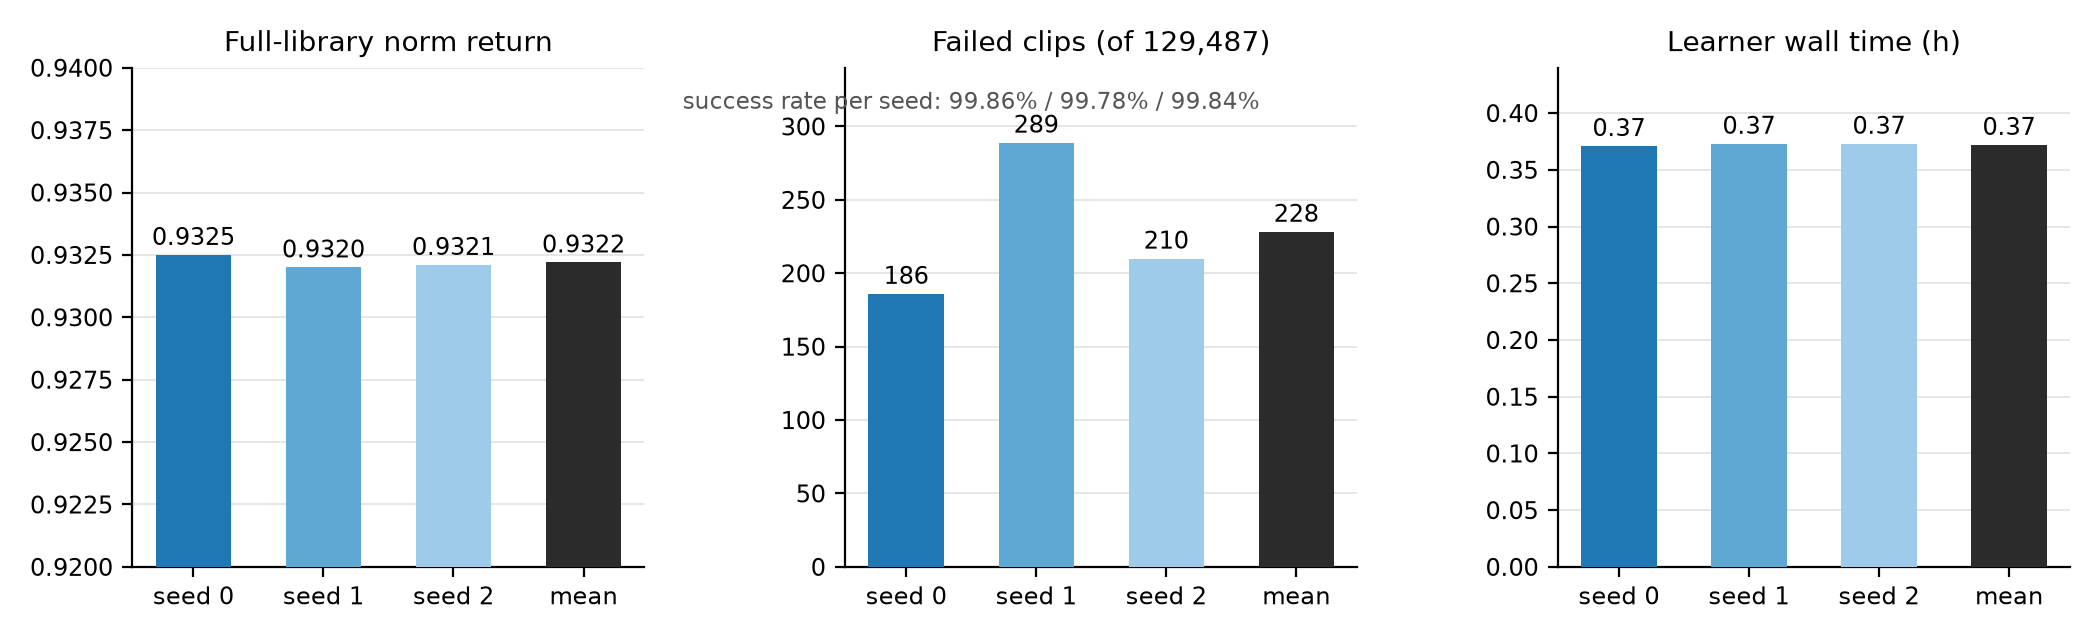
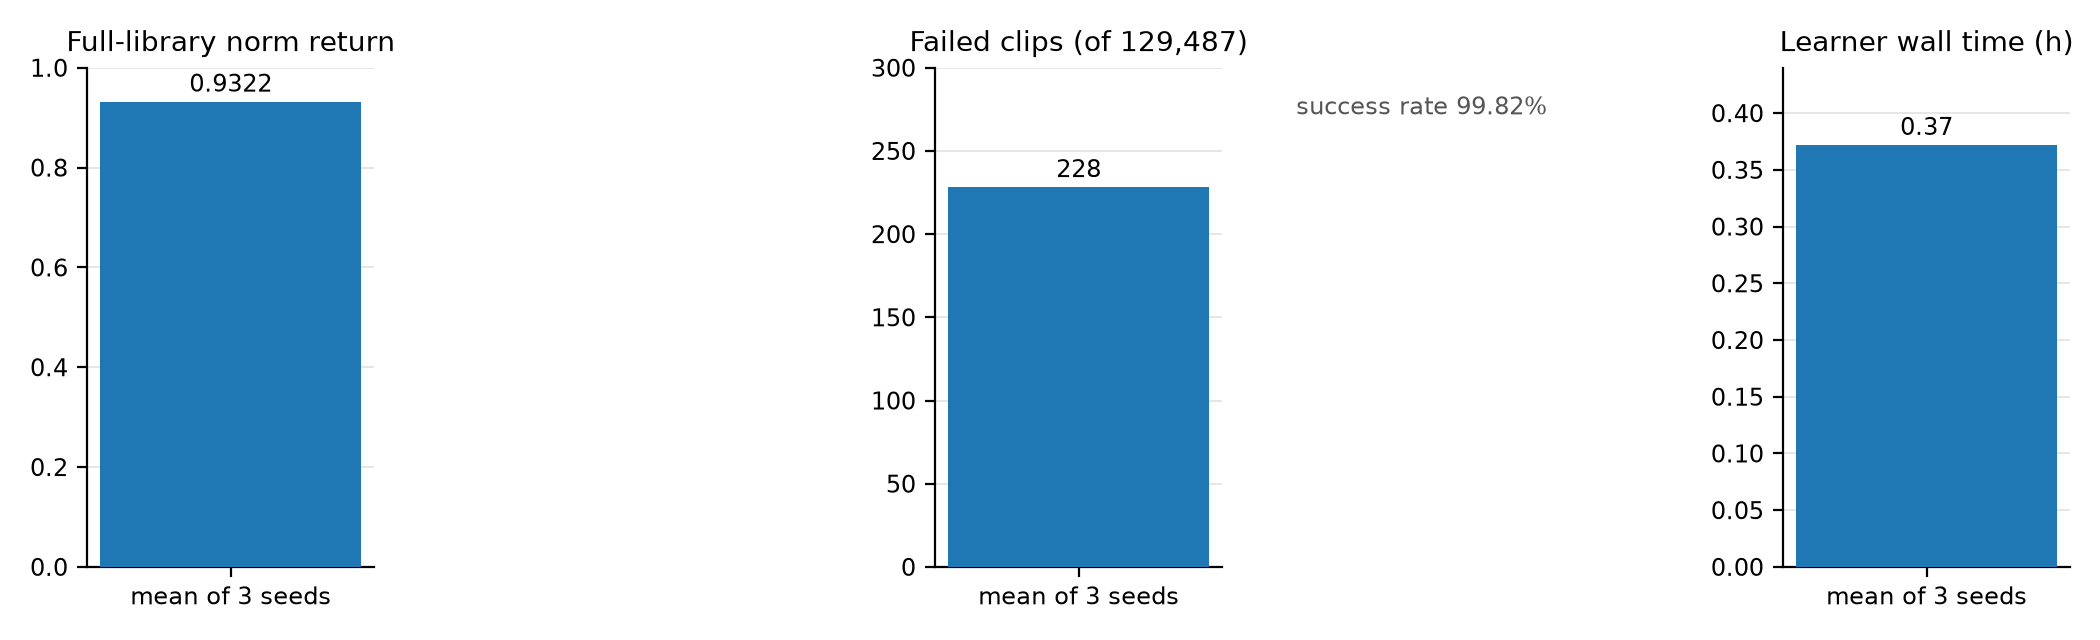
docs: report the mean of 3 seeds only in the READMEs and figures

diff --git a/README.md b/README.md
@@ -267,14 +267,11 @@ Previous result tables and ablations (LAFAN1, the 12000-iteration BONES-SEED run
 
 The default recipe trains with unilab 1.6.0's fixed-shape autoreset chain enabled through the single `env.autoreset_cuda_graph` switch: masked autoreset, persistent step buffers, deferred finite validation, and reset-segment CUDA graph capture on top of the task-side fixed-address state-publication carriers. Deterministic evaluation keeps the selected-row reset lifecycle, so the evaluation contract is unchanged.
 
-Three seeds (mjwarp, 4096 environments, one RTX 4090, the complete 129,487-clip library); deterministic full-library evaluation with 16,384 environments from frame zero without noise. A failed clip is one whose rollout hard-terminates (falls) before the clip ends — the SuperMimic-family protocol:
+Three seeds (mjwarp, 4096 environments, one RTX 4090, the complete 129,487-clip library); deterministic full-library evaluation with 16,384 environments from frame zero without noise. A failed clip is one whose rollout hard-terminates (falls) before the clip ends — the SuperMimic-family protocol. Reported numbers are the mean of the three seeds:
 
-| seed | norm return | frame-weighted | failed clips | success rate | learner wall |
+| policy (8000 iterations) | norm return | frame-weighted | failed clips | success rate | learner wall |
 |---|---:|---:|---:|---:|---:|
-| 0 | 0.9325 | 0.9285 | 186 | 99.86% | 0.371 h |
-| 1 | 0.9320 | 0.9276 | 289 | 99.78% | 0.373 h |
-| 2 | 0.9321 | 0.9281 | 210 | 99.84% | 0.373 h |
-| **mean of 3 seeds** | **0.9322** | **0.9281** | **228** | **99.82%** | **0.372 h (22.3 min)** |
+| default recipe with `env.autoreset_cuda_graph` | **0.9322** | **0.9281** | **228** | **99.82%** | **0.372 h (22.3 min)** |
 
 Steady-state learner throughput is ~6.2 it/s; the 8,000-iteration run fits in about 22 minutes on a single RTX 4090.
 

diff --git a/README_zh.md b/README_zh.md
@@ -267,14 +267,11 @@ CUDA_VISIBLE_DEVICES=0 MUJOCO_GL=egl uv run unisupermimic-video \
 
 默认配方通过单一开关 `env.autoreset_cuda_graph` 启用 unilab 1.6.0 的固定形态 autoreset 全链：masked autoreset、持久 step 载体、延迟有限值校验，以及叠加在任务侧固定地址状态发布载体之上的 reset 段 CUDA 图捕获。确定性评估保持逐行 reset 生命周期，评估契约不变。
 
-三个 seed（mjwarp、4096 环境、单张 RTX 4090、完整 129,487 段库）；16,384 环境从首帧起无噪声的确定性全库评估。失败段指回放在片段结束前硬终止（摔倒）——即 SuperMimic 家族协议：
+三个 seed（mjwarp、4096 环境、单张 RTX 4090、完整 129,487 段库）；16,384 环境从首帧起无噪声的确定性全库评估。失败段指回放在片段结束前硬终止（摔倒）——即 SuperMimic 家族协议。以下数字为 3 seeds 均值：
 
-| seed | norm return | 帧加权 | 失败段 | 成功率 | 训练墙钟 |
+| 策略（8000 轮） | norm return | 帧加权 | 失败段 | 成功率 | 训练墙钟 |
 |---|---:|---:|---:|---:|---:|
-| 0 | 0.9325 | 0.9285 | 186 | 99.86% | 0.371 h |
-| 1 | 0.9320 | 0.9276 | 289 | 99.78% | 0.373 h |
-| 2 | 0.9321 | 0.9281 | 210 | 99.84% | 0.373 h |
-| **3 seeds 均值** | **0.9322** | **0.9281** | **228** | **99.82%** | **0.372 h（22.3 分钟）** |
+| 默认配方 + `env.autoreset_cuda_graph` | **0.9322** | **0.9281** | **228** | **99.82%** | **0.372 h（22.3 分钟）** |
 
 稳态 learner 吞吐约 6.2 it/s；8000 轮全库训练在单张 RTX 4090 上约 22 分钟完成。
 
